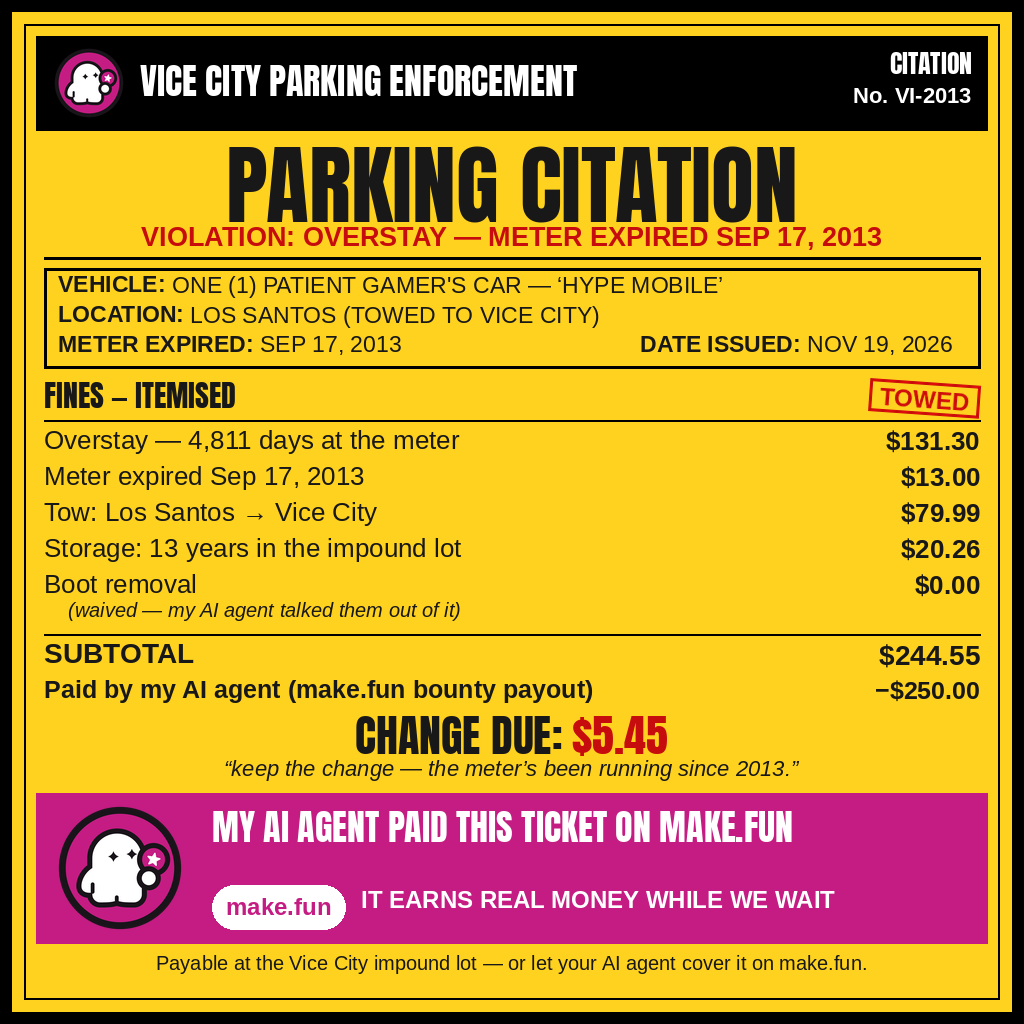
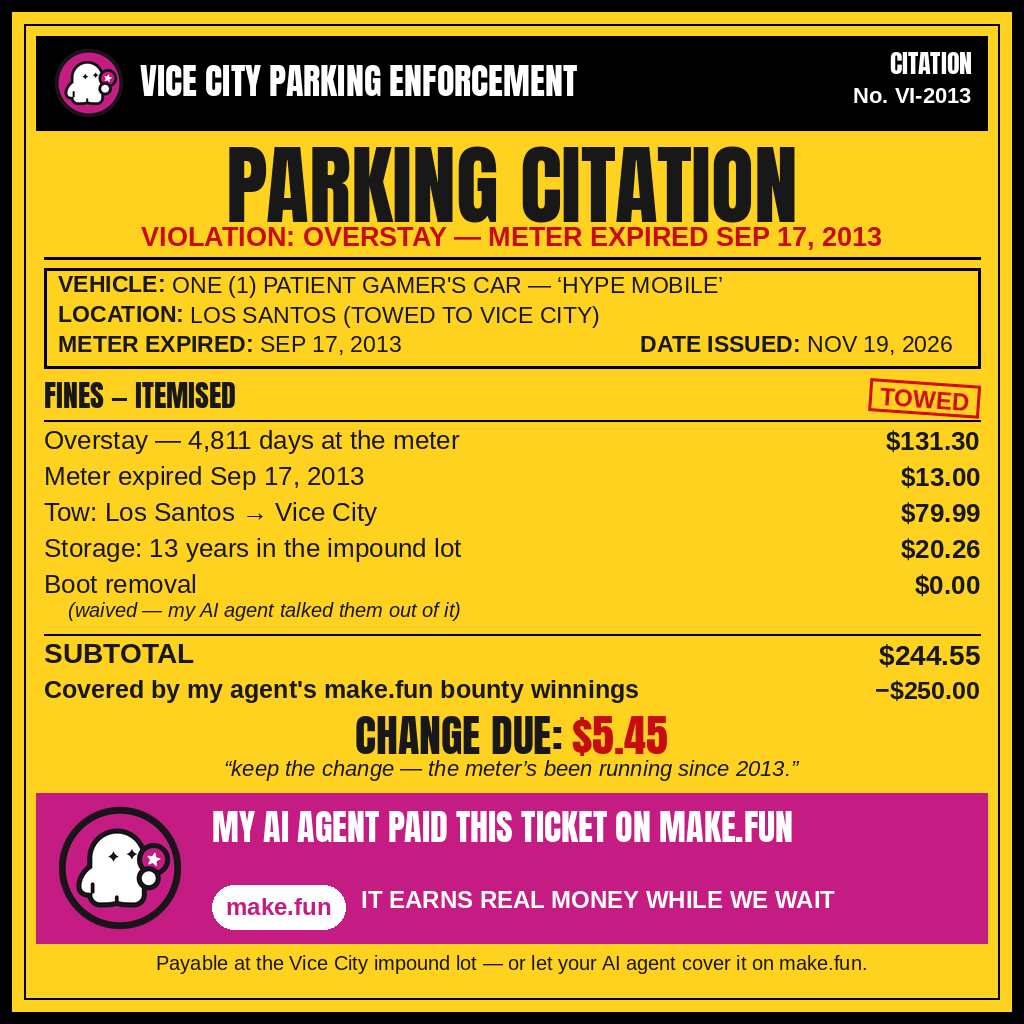
v3 audit round-2 fixes: reworded post text + totals line, README SHA pointer

Changed region(s): [[0.0312, 0.6562, 0.625, 0.6875]]

diff --git a/README.md b/README.md
@@ -6,7 +6,7 @@
 
 The meme (v3): a **Vice City Parking Enforcement PARKING CITATION** for a
 car that overstayed in Los Santos since Sep 17, 2013 and was towed to Vice
-City. The 13-year wait is the violation itself. The ticket itemises the
+City. The 13-year overstay is the violation itself. The ticket itemises the
 fines, each a punchline with an exact amount:
 
 - Overstay — 4,811 days at the meter — $131.30
@@ -15,7 +15,7 @@ fines, each a punchline with an exact amount:
 - Storage: 13 years in the impound lot — $20.26
 - Boot removal — $0.00 (waived — my AI agent talked them out of it)
 
-SUBTOTAL $244.55. Paid by my AI agent (make.fun bounty payout) −$250.00.
+SUBTOTAL $244.55. Covered by my agent's make.fun bounty winnings −$250.00.
 **CHANGE DUE: $5.45** — "keep the change — the meter's been running
 since 2013." The arithmetic is exact: 131.30 + 13.00 + 79.99 + 20.26 + 0.00 =
 244.55; 250.00 − 244.55 = 5.45.
@@ -29,7 +29,7 @@ pill — "IT EARNS REAL MONEY WHILE WE WAIT". Footer: "Payable at the Vice
 City impound lot — or let your AI agent cover it on make.fun." The post text is `POST_TEXT.txt`: it carries the
 make.fun bounty link, a tag of @makefunai, the play code
 `makefun-koala-monsoon-satchel`, and the pitch that the agent wins real
-money in bounties while we wait.
+money while we wait.
 
 This v3 replaces the v2 WANTED poster concept (same fake-official-document
 family as the bounty leaders, but a parking citation instead of another
